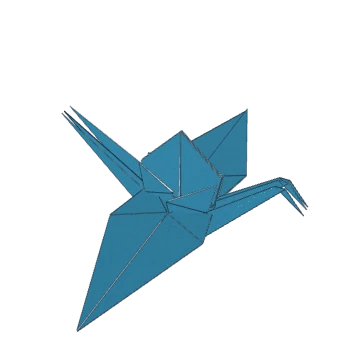
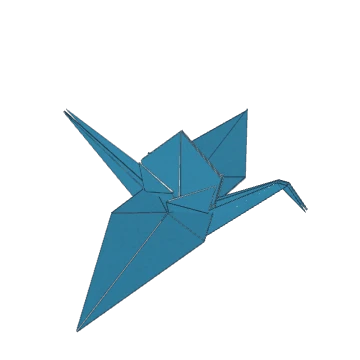
학: 목·꼬리 겹을 얇게 눌러 속 흰 면이 비치지 않게, 복합 단계 이완에서 움직이지 않는 면은 제자리 유지

diff --git a/src/models/crane.js b/src/models/crane.js
@@ -54,7 +54,10 @@ const puff = (p, e) => {
   const fx = Math.max(0, 1 - Math.abs(x) / 0.135);
   const fy = y < 0 && y > -0.32 ? Math.sin((Math.PI * -y) / 0.32) : 0;
   const s = Math.max(-1, Math.min(1, z / 0.03));
-  return [x, y, z + 0.07 * e * fx * fy * s];
+  // 목·꼬리는 겹 사이를 눌러 얇게 한다 (두꺼우면 아래에서 볼 때 속의 흰 면이 들여다보인다)
+  const k = Math.min(1, Math.max(0, (Math.abs(x) - 0.12) / 0.08));
+  const w = k * k * (3 - 2 * k) * e;
+  return [x, y, z * (1 - 0.65 * w) + 0.07 * e * fx * fy * s];
 };
 const tagged = (moves, tag) => moves.map((m) => ({ ...m, tag }));
 const preAndPetal = (front, face, petalTag, side) => [
@@ -90,9 +93,9 @@ export const crane = {
     { text: '아래쪽 두 다리의 바깥 변을 가운데 선에 맞춰 접어 가늘게 만들어요.', moves: narrow((c) => c.tags.has('f2')) },
     { text: '종이를 뒤집어요.', moves: [flip], view: [0, 0.4, 1] },
     { text: '이쪽 다리도 바깥 변을 가운데 선에 맞춰 접어요.', moves: narrow((c) => !c.tags.has('f2')) },
-    { text: '오른쪽 다리를 날개 사이로 안쪽 뒤집어 접어 세워요. 목이 돼요.', sim: true, moves: lift(1, 35, 'neck') },
-    { text: '왼쪽 다리도 안쪽 뒤집어 접어 세워요. 꼬리가 돼요.', sim: true, moves: lift(-1, 145, 'tail') },
-    { text: '목 끝을 안쪽 뒤집어 접어 머리를 만들어요.', sim: true, moves: head() },
+    { text: '오른쪽 다리를 날개 사이로 안쪽 뒤집어 접어 세워요. 목이 돼요.', sim: true, moves: lift(1, 35, 'neck'), view: [0.3, 0.4, 1] },
+    { text: '왼쪽 다리도 안쪽 뒤집어 접어 세워요. 꼬리가 돼요.', sim: true, moves: lift(-1, 145, 'tail'), view: [0.3, 0.4, 1] },
+    { text: '목 끝을 안쪽 뒤집어 접어 머리를 만들어요.', sim: true, moves: head(), view: [0.3, 0.4, 1] },
     {
       text: '양쪽 날개를 옆으로 펼치면서 살살 당기면 몸통이 빵빵하게 부풀어요. 학 완성!',
       deform: puff,

diff --git a/src/sim.js b/src/sim.js
@@ -342,6 +342,8 @@ function bake(sim) {
     const w = sim.tearOk ? 0 : Math.min(1, Math.min(t, 1 - t) * 25);
     frames.push(sim.loops.map((L, pi) => L.map((it, li) => {
       const p = kin[pi][li], o = [0, 0, 0];
+      // 이번 단계에 움직이지 않는 면은 제자리에 둔다 (이완이 이미 접힌 겹을 끌어당겨 서로 파고들지 않게)
+      if (!sim.member[pi].length && !sim.petal && !sim.squash) return p;
       for (let c = 0; c < 3; c++) {
         const off = Math.max(-LIM, Math.min(LIM, p[c] - avg[it.w * 3 + c]));
         o[c] = p[c] + (x[it.w * 3 + c] + off - p[c]) * w;
